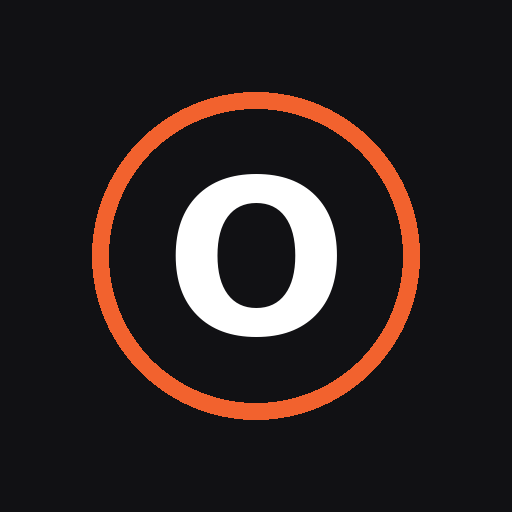
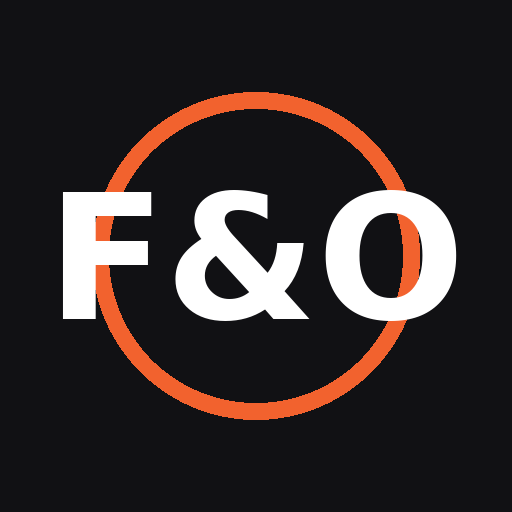
Sempre mostra em qual orcamento o lancamento sera salvo (corrige confusao com Meu espaco, que e so um filtro de visao). Renomeia o app de 'Obra - Painel de Gastos' para 'Financas e Orcamento' em titulo, manifest PWA e icones

Changed region(s): [[0.3438, 0.3125, 0.9062, 0.6562], [0.125, 0.375, 0.3125, 0.625]]

diff --git a/src/components/EditExpenseSheet.jsx b/src/components/EditExpenseSheet.jsx
@@ -106,18 +106,16 @@ export default function EditExpenseSheet({ row, onClose, onSaved }) {
           </button>
         </div>
 
-        {orcamentos.length > 1 && (
-          <label className="field">
-            <span>Orçamento</span>
-            <select value={form.orcamentoId} onChange={(e) => update('orcamentoId', e.target.value)}>
-              {orcamentos.map((o) => (
-                <option key={o.id} value={o.id}>
-                  {o.nome}
-                </option>
-              ))}
-            </select>
-          </label>
-        )}
+        <label className="field">
+          <span>Orçamento</span>
+          <select value={form.orcamentoId} onChange={(e) => update('orcamentoId', e.target.value)}>
+            {orcamentos.map((o) => (
+              <option key={o.id} value={o.id}>
+                {o.nome}
+              </option>
+            ))}
+          </select>
+        </label>
 
         <label className="field">
           <span>Valor</span>

diff --git a/src/components/NewExpenseForm.jsx b/src/components/NewExpenseForm.jsx
@@ -155,18 +155,16 @@ export default function NewExpenseForm({ onSaved }) {
           </button>
         </div>
 
-        {orcamentos.length > 1 && (
-          <label className="field">
-            <span>Orçamento</span>
-            <select value={form.orcamentoId} onChange={(e) => update('orcamentoId', e.target.value)}>
-              {orcamentos.map((o) => (
-                <option key={o.id} value={o.id}>
-                  {o.nome}
-                </option>
-              ))}
-            </select>
-          </label>
-        )}
+        <label className="field">
+          <span>Salvar no orçamento</span>
+          <select value={form.orcamentoId} onChange={(e) => update('orcamentoId', e.target.value)}>
+            {orcamentos.map((o) => (
+              <option key={o.id} value={o.id}>
+                {o.nome}
+              </option>
+            ))}
+          </select>
+        </label>
 
         <div className="field-row">
           <label className="field">

diff --git a/index.html b/index.html
@@ -3,7 +3,7 @@
   <head>
     <meta charset="UTF-8" />
     <meta name="viewport" content="width=device-width, initial-scale=1.0, viewport-fit=cover" />
-    <title>Obra — Painel de Gastos</title>
+    <title>Finanças & Orçamento</title>
 
     <!-- PWA: permite instalar como app na tela inicial -->
     <link rel="manifest" href="/AppGestaoFinanceira/manifest.json" />
@@ -16,7 +16,7 @@
     <!-- Comportamento de app no iPhone (Safari não lê o manifest.json) -->
     <meta name="apple-mobile-web-app-capable" content="yes" />
     <meta name="apple-mobile-web-app-status-bar-style" content="black-translucent" />
-    <meta name="apple-mobile-web-app-title" content="Obra" />
+    <meta name="apple-mobile-web-app-title" content="Finanças" />
 
     <link rel="preconnect" href="https://fonts.googleapis.com" />
     <link rel="preconnect" href="https://fonts.gstatic.com" crossorigin />

diff --git a/src/App.jsx b/src/App.jsx
@@ -190,7 +190,7 @@ export default function App() {
 function StatusScreen({ title, subtitle, isError, children }) {
   return (
     <div className="status-screen">
-      <span className="mono status-screen__eyebrow">OBRA — PAINEL DE GASTOS</span>
+      <span className="mono status-screen__eyebrow">FINANÇAS & ORÇAMENTO</span>
       <h1 className={isError ? 'text-accent' : ''}>{title}</h1>
       {subtitle && <p className="text-muted">{subtitle}</p>}
       {children}

diff --git a/src/components/LoginScreen.jsx b/src/components/LoginScreen.jsx
@@ -84,7 +84,7 @@ export default function LoginScreen() {
         <div className="login-card__icon">
           <Lock size={22} strokeWidth={2.2} />
         </div>
-        <h1 className="login-card__title">Obra — Painel de Gastos</h1>
+        <h1 className="login-card__title">Finanças & Orçamento</h1>
 
         <div className="mode-toggle">
           <button